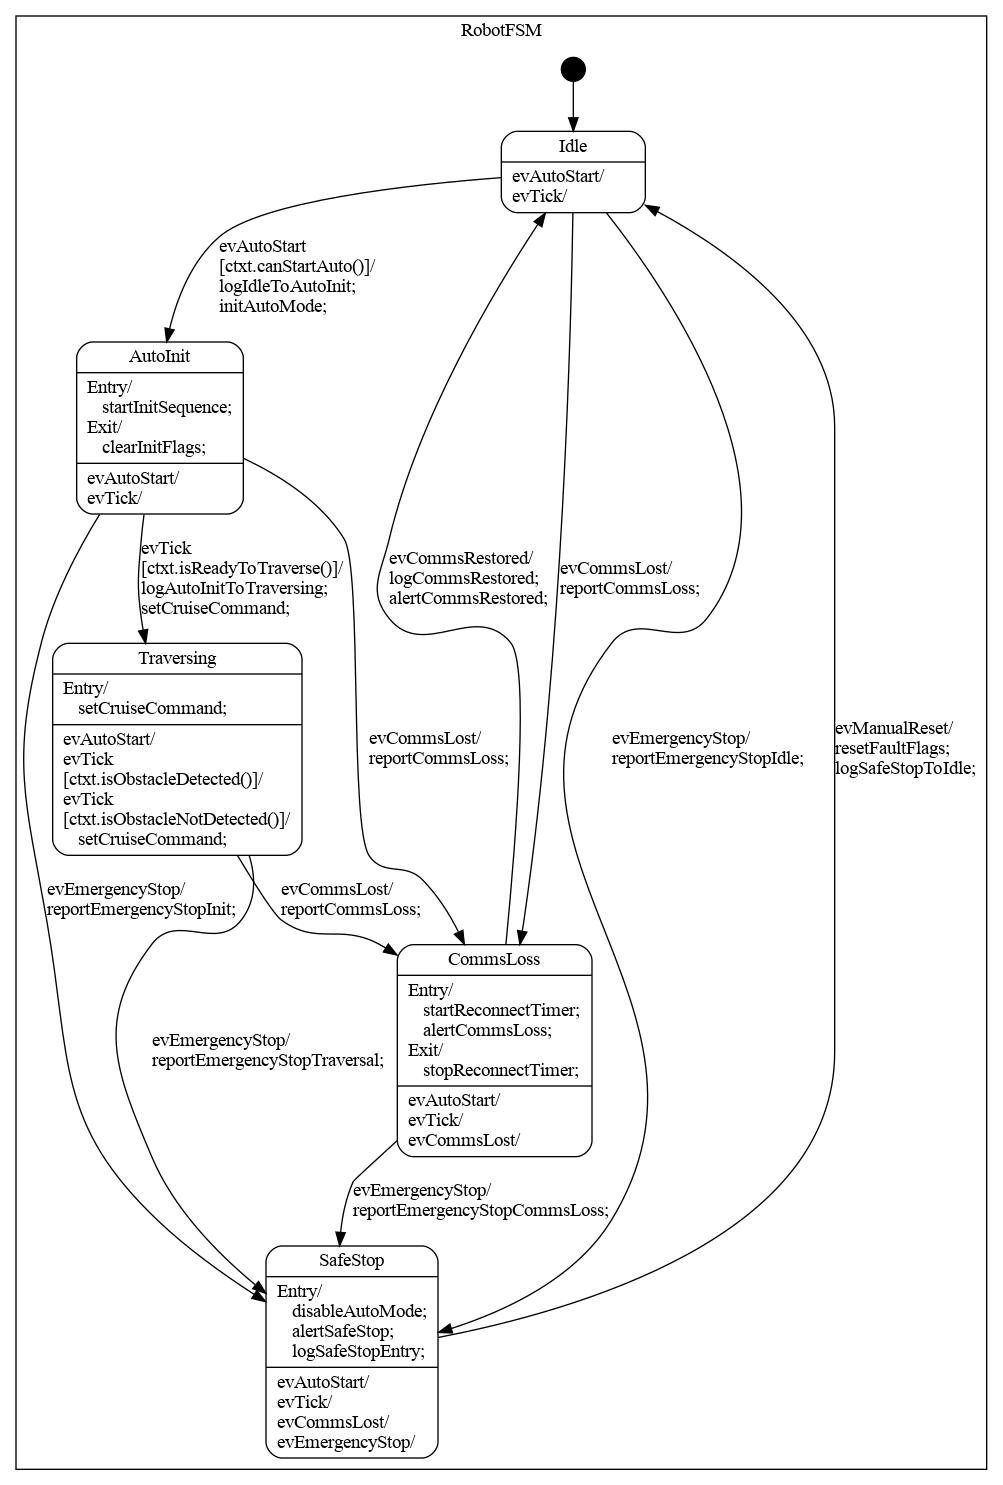
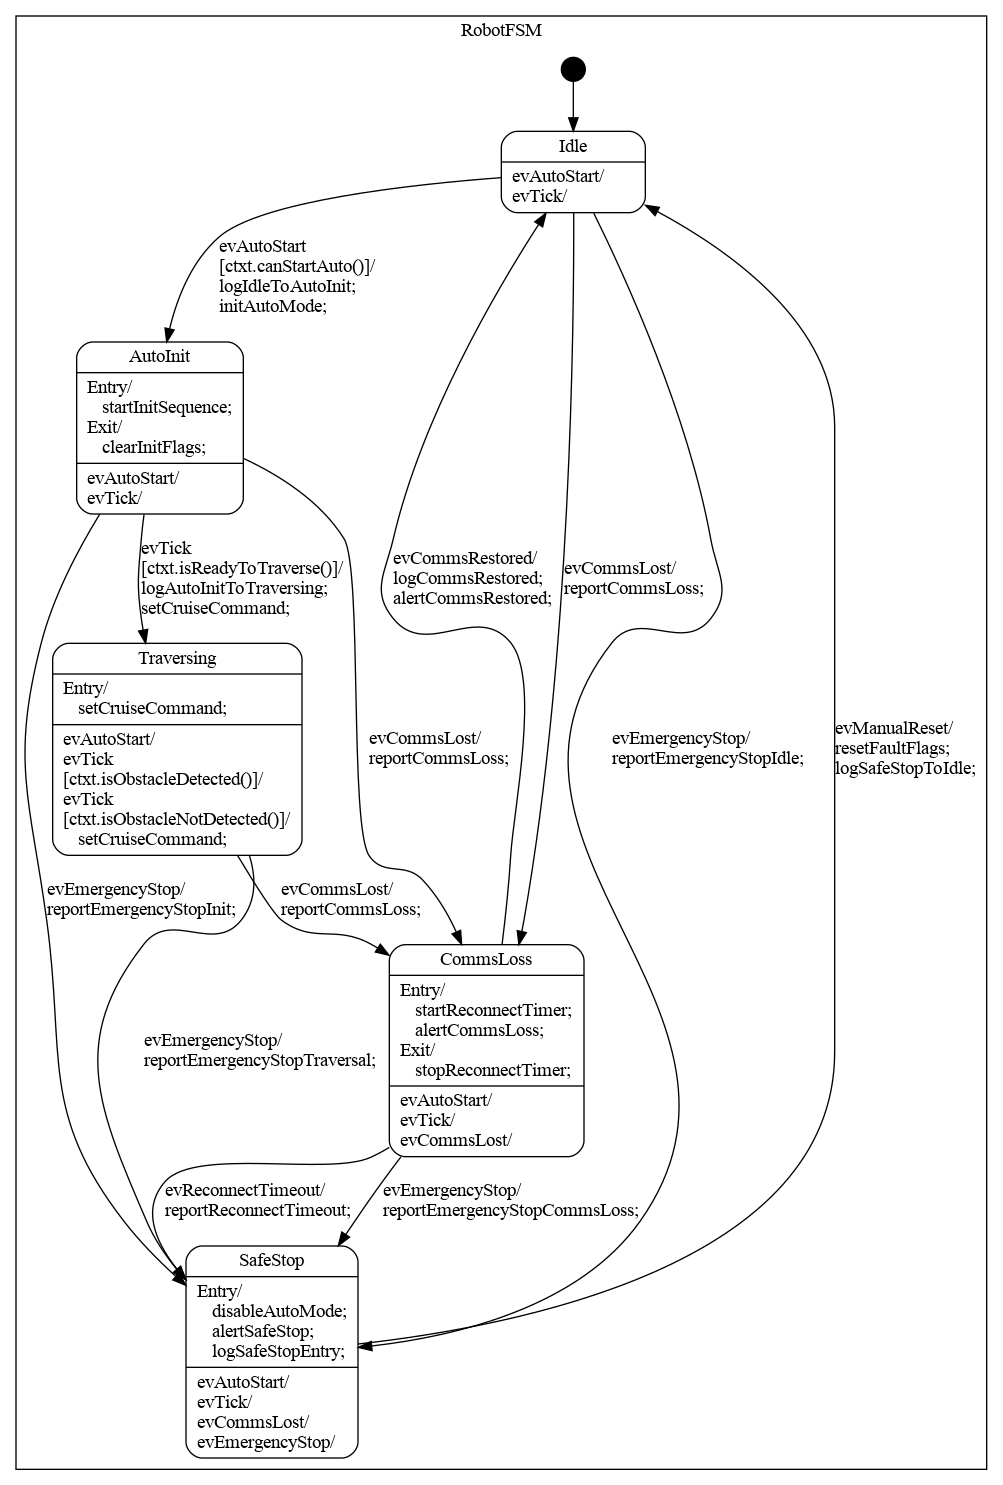
Add SMC evReconnectTimeout.

diff --git a/b29_controllers/b29_smc_auto_controller/src/robot_context.cpp b/b29_controllers/b29_smc_auto_controller/src/robot_context.cpp
@@ -9,6 +9,7 @@ namespace
 {
 constexpr double kCruiseSpeedMps = 0.10;
 constexpr double kApproachSpeedMps = 0.03;
+constexpr std::uint32_t kReconnectTimeoutTicks = 250;
 }
 
 namespace b29_smc_auto_controller
@@ -76,6 +77,16 @@ void RobotContext::tick50Hz()
     {
       fsm_.evCommsRestored();
       return;
+    }
+
+    if (reconnect_timer_active_)
+    {
+      ++reconnect_timer_ticks_;
+      if (reconnect_timer_ticks_ >= kReconnectTimeoutTicks)
+      {
+        fsm_.evReconnectTimeout();
+        return;
+      }
     }
 
     fsm_.evTick();
@@ -264,12 +275,14 @@ void RobotContext::clearInitFlags()
 void RobotContext::startReconnectTimer()
 {
   reconnect_timer_active_ = true;
+  reconnect_timer_ticks_ = 0;
   setCommandReason("reconnect_timer_started");
 }
 
 void RobotContext::stopReconnectTimer()
 {
   reconnect_timer_active_ = false;
+  reconnect_timer_ticks_ = 0;
   setCommandReason("reconnect_timer_stopped");
 }
 
@@ -353,6 +366,13 @@ void RobotContext::reportEmergencyStopCommsLoss()
   reportEmergencyStop("emergency_stop_comms_loss");
 }
 
+void RobotContext::reportReconnectTimeout()
+{
+  setSafeStopCommand("reconnect_timeout");
+  reportError("reconnect_timeout");
+  logTransition("CommsLoss->SafeStop");
+}
+
 void RobotContext::reportErrorAutoInitFailed()
 {
   setSafeStopCommand("auto_init_failed");
@@ -386,12 +406,16 @@ void RobotContext::logAutoInitToTraversing()
 
 void RobotContext::logCommsRestored()
 {
+  last_error_.clear();
   logTransition("CommsLoss->Idle");
 }
 
 void RobotContext::logSafeStopEntry()
 {
-  logTransition("EnterSafeStop");
+  if (last_error_ != "reconnect_timeout")
+  {
+    logTransition("EnterSafeStop");
+  }
 }
 
 void RobotContext::logSafeStopToIdle()

diff --git a/b29_controllers/b29_smc_auto_controller/gen/src/RobotFSM_sm.cpp b/b29_controllers/b29_smc_auto_controller/gen/src/RobotFSM_sm.cpp
@@ -42,6 +42,11 @@ void RobotContextState::evManualReset(RobotFSMContext& context)
     Default(context);
 }
 
+void RobotContextState::evReconnectTimeout(RobotFSMContext& context)
+{
+    Default(context);
+}
+
 void RobotContextState::evTick(RobotFSMContext& context)
 {
     Default(context);
@@ -369,6 +374,27 @@ void RobotFSM_CommsLoss::evEmergencyStop(RobotFSMContext& context)
     try
     {
         ctxt.reportEmergencyStopCommsLoss();
+        context.setState(RobotFSM::SafeStop);
+    }
+    catch (...)
+    {
+        context.setState(RobotFSM::SafeStop);
+        throw;
+    }
+    context.getState().Entry(context);
+
+
+}
+
+void RobotFSM_CommsLoss::evReconnectTimeout(RobotFSMContext& context)
+{
+    RobotContext& ctxt = context.getOwner();
+
+    context.getState().Exit(context);
+    context.clearState();
+    try
+    {
+        ctxt.reportReconnectTimeout();
         context.setState(RobotFSM::SafeStop);
     }
     catch (...)

diff --git a/b29_controllers/b29_smc_auto_controller/gen/include/RobotFSM_sm.h b/b29_controllers/b29_smc_auto_controller/gen/include/RobotFSM_sm.h
@@ -42,6 +42,7 @@ public:
     virtual void evCommsRestored(RobotFSMContext& context);
     virtual void evEmergencyStop(RobotFSMContext& context);
     virtual void evManualReset(RobotFSMContext& context);
+    virtual void evReconnectTimeout(RobotFSMContext& context);
     virtual void evTick(RobotFSMContext& context);
 
 protected:
@@ -130,6 +131,7 @@ public:
     virtual void evCommsLost(RobotFSMContext& context);
     virtual void evCommsRestored(RobotFSMContext& context);
     virtual void evEmergencyStop(RobotFSMContext& context);
+    virtual void evReconnectTimeout(RobotFSMContext& context);
     virtual void evTick(RobotFSMContext& context);
 };
 
@@ -208,6 +210,11 @@ public:
     inline void evManualReset()
     {
         getState().evManualReset(*this);
+    };
+
+    inline void evReconnectTimeout()
+    {
+        getState().evReconnectTimeout(*this);
     };
 
     inline void evTick()

diff --git a/b29_controllers/b29_smc_auto_controller/include/b29_smc_auto_controller/robot_context.h b/b29_controllers/b29_smc_auto_controller/include/b29_smc_auto_controller/robot_context.h
@@ -1,6 +1,7 @@
 // SPDX-License-Identifier: BSD-3-Clause
 #pragma once
 
+#include <cstdint>
 #include <string>
 
 #include <b29_smc_auto_controller/AutoStateTrace.h>
@@ -66,6 +67,7 @@ public:
   void reportEmergencyStopInit();
   void reportEmergencyStopTraversal();
   void reportEmergencyStopCommsLoss();
+  void reportReconnectTimeout();
   void reportErrorAutoInitFailed();
 
   void alertCommsLoss();
@@ -95,6 +97,7 @@ private:
   bool auto_start_requested_{false};
   bool last_input_auto_start_requested_{false};
   bool reconnect_timer_active_{false};
+  std::uint32_t reconnect_timer_ticks_{0};
   b29_smc_auto_controller::CommandDispatcher::OutputMode trace_output_mode_{
       b29_smc_auto_controller::CommandDispatcher::OutputMode::kNormal};
   std::string last_error_;

diff --git a/b29_controllers/b29_smc_auto_controller/README.md b/b29_controllers/b29_smc_auto_controller/README.md
@@ -136,8 +136,9 @@
   - `startReconnectTimer()`
   - `alertCommsLoss()`
 - 离开状态时执行 `stopReconnectTimer()`
-- 该状态不会自动恢复自动运行，只等待通信恢复
+- 该状态先等待通信恢复；如果连续 5 秒都没有恢复，则转入 `SafeStop`
 - 收到 `evCommsRestored` 时，回到 `Idle`
+- 收到 `evReconnectTimeout` 时，转入 `SafeStop`
 - 收到 `evEmergencyStop` 时，转入 `SafeStop`
 
 #### `SafeStop`
@@ -169,7 +170,8 @@
 - 作用：
   - 驱动 `AutoInit -> Traversing`
   - 驱动 `Traversing` 内的巡航命令刷新
-  - 在 `CommsLoss` 和 `SafeStop` 中维持原状态等待恢复条件
+  - 在 `CommsLoss` 中推进通信恢复计时
+  - 在 `SafeStop` 中维持原状态等待人工复位
 
 #### `evCommsLost`
 
@@ -184,6 +186,15 @@
 - 来源：当前处于 `CommsLoss` 且检测到 `lower_alive == true`
 - 作用：从 `CommsLoss` 回到 `Idle`
 - 当前设计明确要求“恢复后回空闲态，不自动续跑”
+
+#### `evReconnectTimeout`
+
+- 含义：通信恢复等待超时
+- 来源：当前处于 `CommsLoss`，且 50Hz 计时达到 5 秒仍未检测到 `lower_alive == true`
+- 作用：从 `CommsLoss` 转入 `SafeStop`
+- `transition_reason` 记录为 `CommsLoss->SafeStop`
+- `command_reason` 和 `last_event` 记录为 `reconnect_timeout`
+- 当前设计明确要求“超时后不再自动回 `Idle`，必须人工复位”
 
 #### `evEmergencyStop`
 
@@ -320,6 +331,7 @@ roslaunch b29_control start.launch
   - `emergency_stop`
   - `!lower_alive`
   - `CommsLoss && lower_alive -> evCommsRestored`
+  - `CommsLoss && reconnect timeout -> evReconnectTimeout`
   - `SafeStop && manual_reset_requested -> evManualReset`
   - `Idle && auto_start_requested`
   - 其余进入 `evTick`

diff --git a/b29_controllers/b29_smc_auto_controller/GAZEBO_DEBUG_WORKFLOW.md b/b29_controllers/b29_smc_auto_controller/GAZEBO_DEBUG_WORKFLOW.md
@@ -13,7 +13,7 @@
 当前文档只覆盖已经实现的状态机范围：
 
 - 状态：`Idle`、`AutoInit`、`Traversing`、`CommsLoss`、`SafeStop`
-- 事件：`evAutoStart`、`evTick`、`evCommsLost`、`evCommsRestored`、`evEmergencyStop`、`evManualReset`
+- 事件：`evAutoStart`、`evTick`、`evCommsLost`、`evCommsRestored`、`evReconnectTimeout`、`evEmergencyStop`、`evManualReset`
 
 当前不覆盖的状态：
 
@@ -257,6 +257,7 @@ rostopic pub -1 "$SENSOR_TOPIC" b29_smc_auto_controller/AutoSensorInput \
 - `output_mode == "safe_hold"`
 - `stop_all == true`
 - `freeze_joints == true`
+- `CommsLoss` 进入后就开始累计重连超时计数
 
 ### 步骤 2：验证 `evCommsRestored`
 
@@ -295,6 +296,29 @@ rostopic pub -1 "$SENSOR_TOPIC" b29_smc_auto_controller/AutoSensorInput \
 - `current_state == "Idle"`
 - `transition_reason == "CommsLoss->Idle"` 或至少观察到状态从 `CommsLoss` 回到 `Idle`
 - 状态恢复后不会自动重新进入 `AutoInit` 或 `Traversing`
+- 这个恢复路径必须在 `evReconnectTimeout` 触发之前完成；一旦超时进入 `SafeStop`，仅靠 `lower_alive=true` 不会自动回到 `Idle`
+
+### 步骤 2b：验证 `evReconnectTimeout`
+
+#### 触发方式
+
+保持 `lower_alive=false`，不要发送恢复输入，等待超过 5 秒。50Hz 下对应约 250 个 tick。
+
+#### 对应事件
+
+- `evReconnectTimeout`
+
+#### 预期状态
+
+- `SafeStop`
+
+#### 验收标准
+
+- `current_state == "SafeStop"`
+- `transition_reason == "CommsLoss->SafeStop"`
+- `command_reason == "reconnect_timeout"`
+- `last_event == "reconnect_timeout"`
+- 超时后再把 `lower_alive` 拉回 `true`，状态仍应停留在 `SafeStop`，直到人工复位
 
 ### 步骤 3：验证 `Idle`
 
